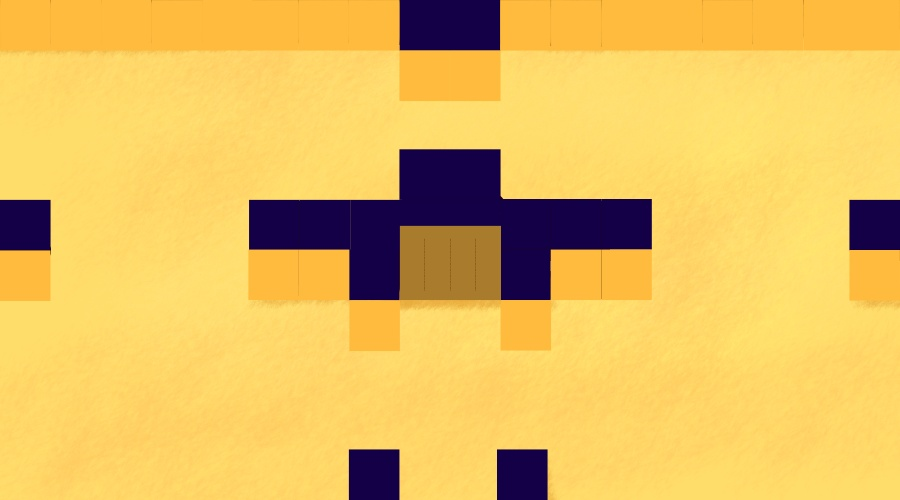
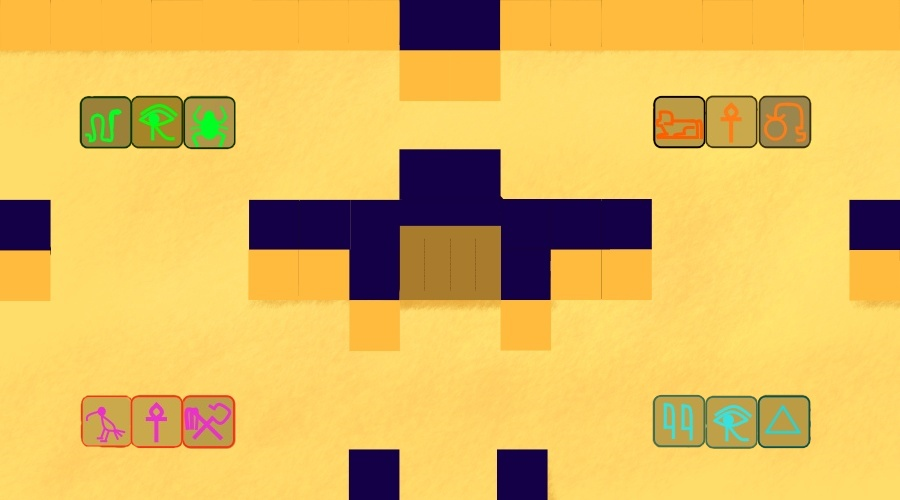
Второй уровень и движение персонажа

diff --git a/main.py b/main.py
@@ -99,7 +99,7 @@ def generate_level(level):
     return new_player, x + 1, y + 1, key_coors
 
 
-def fin():
+def fin(number):
     global all_sprites, tiles_group, things, interaction_objects, inventory_group, helpers_group
     global player, level_x, level_y, key_coors, margin, level, things_dict
     margin = 0
@@ -109,14 +109,19 @@ def fin():
     interaction_objects = pygame.sprite.Group()
     inventory_group = pygame.sprite.Group()
     helpers_group = pygame.sprite.Group()
-
-    Background("level2.jpg", 0)
-    inventory = Inventory()
-    level = load_level("level2.txt")
-    player, level_x, level_y, key_coors = generate_level(level)
-    things_dict = {
-        'key': Things("key", *key_coors, state=False)
-    }
+    if number == 1:
+        Background("level2.jpg", 0)
+        inventory = Inventory()
+        level = load_level("level2.txt")
+        entry = Entry('entry2', 'lense', 380, 16)
+        player, level_x, level_y, key_coors = generate_level(level)
+        things_dict = {
+            'key': Things("key", *key_coors, state=False),
+            'note2': Things("note", *COOR_NOTE_ROOM_2, state=False),
+            'level_n': 2
+        }
+    if number == 2:
+        terminate()
     while True:
         events = pygame.event.get()
         for event in events:
@@ -125,10 +130,10 @@ def fin():
         player.update(events)
         things.update(events)
         interaction_objects.update(events)
+        interaction_objects.draw(screen)
         all_sprites.draw(screen)
         tiles_group.draw(screen)
         inventory_group.draw(screen)
-        interaction_objects.draw(screen)
         things.draw(screen)
         pygame.display.flip()
     terminate()
@@ -160,7 +165,8 @@ class Background(pygame.sprite.Sprite):
 class Hero(pygame.sprite.Sprite):
     def __init__(self, pos_x, pos_y):
         super().__init__(all_sprites)
-        self.image = load_image("hero.png", format="png")
+        self.image = self.r_image = load_image("hero.png", format="png")
+        self.l_image = pygame.transform.flip(self.r_image, True, False)
         self.rect = self.image.get_rect().move(
             CELL_SIZE * pos_x, margin + CELL_SIZE * pos_y)
         self.pos_x = pos_x
@@ -184,9 +190,16 @@ class Hero(pygame.sprite.Sprite):
                 elif event.key == pygame.K_s or event.key == pygame.K_DOWN:
                     new_pos_y += 1
                 elif event.key == pygame.K_a or event.key == pygame.K_LEFT:
+                    self.image = self.l_image
                     new_pos_x -= 1
                 elif event.key == pygame.K_d or event.key == pygame.K_RIGHT:
+                    self.image = self.r_image
                     new_pos_x += 1
+            if event.type == pygame.MOUSEBUTTONDOWN:
+                if event.pos[0] < self.rect.x + self.rect.w // 2:
+                    self.image = self.l_image
+                elif event.pos[0] > self.rect.x + self.rect.w // 2:
+                    self.image = self.r_image
         ok = True
         if new_pos_x >= level_x or new_pos_y >= level_y or new_pos_x < 0 or new_pos_y < 0:
             ok = False
@@ -264,7 +277,7 @@ class InteractionObjects(pygame.sprite.Sprite):
 
     def update_rect(self):
         self.rect.topleft = (
-            tile_width * self.pos_x + (tile_width - self.rect.width) // 2,
+            tile_width * self.pos_x + abs(tile_width - self.rect.width) // 2,
             margin + tile_height * self.pos_y)
 
     def check_need_thing(self):
@@ -283,7 +296,7 @@ class InteractionObjects(pygame.sprite.Sprite):
     def add_to_inventory(self, thing):
         if self.check_need_thing() and thing.type not in inventory.content:
             inventory.add_thing(thing)
-            if self.type == "chest":
+            if self.type == "chest" and things_dict['level_n'] == 1:
                 scarabeus.live()
 
     def update(self, events):
@@ -297,8 +310,12 @@ class InteractionObjects(pygame.sprite.Sprite):
                             self.add_to_inventory(things_dict['key'])
                         self.die()
                     elif self.type == "chest":  # На доработку
-                        if self.pos_x == things_dict['note'].pos_x and self.pos_y == things_dict['note'].pos_y:
-                            self.add_to_inventory(things_dict['note'])
+                        if things_dict['level_n'] == 1:
+                            if self.pos_x == things_dict['note'].pos_x and self.pos_y == things_dict['note'].pos_y:
+                                self.add_to_inventory(things_dict['note'])
+                        elif things_dict['level_n'] == 2:
+                            if self.pos_x == things_dict['note2'].pos_x and self.pos_y == things_dict['note2'].pos_y:
+                                self.add_to_inventory(things_dict['note2'])
                     elif self.type == "sarcophag":
                         if self.pos_x == things_dict['key'].pos_x and self.pos_y == things_dict['key'].pos_y:
                             self.add_to_inventory(things_dict['key'])
@@ -307,56 +324,94 @@ class InteractionObjects(pygame.sprite.Sprite):
 class Entry(InteractionObjects):
     def __init__(self, obj_type, thing_for_action, x, y):
         super().__init__(obj_type, thing_for_action, x, y)
-        self.image = load_image("entry1.png")
-        self.rect = self.image.get_rect()
-        self.rect.x = setle(380, 1)
-        self.rect.y = 8
-        self.type = "entry"
-        self.pos_x = self.rect.x // tile_width
-        self.pos_y = self.rect.y / tile_height
-        self.big_image, self.open_image = load_image("big entry.jpg"), load_image("big entry2.jpg")
-        self.lense_pX, self.lense_pY, self.lense_pR = 450, 90, 30
+        if self.type == 'entry':
+            self.image = load_image("entry1.png")
+            self.rect = self.image.get_rect()
+            self.rect.x = setle(380, 1)
+            self.rect.y = 8
+            self.pos_x = self.rect.x // tile_width
+            self.pos_y = self.rect.y / tile_height
+            self.big_image, self.open_image = load_image("big entry.jpg"), load_image("big entry2.jpg")
+            self.lense_pX, self.lense_pY, self.lense_pR = 450, 90, 30
+        elif self.type == 'entry2':
+            self.image = load_image("entry2.png", format='png')
+            self.rect = self.image.get_rect()
+            self.rect.x = setle(400, 1)
+            self.rect.y = 225
+            self.pos_x = self.rect.x // tile_width
+            self.pos_y = self.rect.y / tile_height
+            self.big_image, self.open_image = load_image("big entry 3.0.jpg"), load_image("big entry 3.jpg")
+            self.wall_wheels = [WallWheel(107, 45, 15, True, 208, 80, [f"plates\plate1.{str(i + 1)}.png" for i in range(7)]),
+                           WallWheel(107, 45, 15, True, 334, 80, [f"plates\plate2.{str(i + 1)}.png" for i in range(7)]),
+                           WallWheel(107, 45, 15, True, 460, 80, [f"plates\plate3.{str(i + 1)}.png" for i in range(7)]),
+                           WallWheel(107, 45, 15, True, 586, 80, [f"plates\plate4.{str(i + 1)}.png" for i in range(7)])]
 
     def update(self, events):
         for event in events:
             if event.type == pygame.MOUSEBUTTONDOWN:
                 if event.pos[0] <= self.rect.right and event.pos[0]  >= self.rect.left and \
-                        event.pos[1] <= self.rect.bottom and event.pos[0] >= self.rect.top and \
-                        player.pos_x in [7, 8, 9] and player.pos_y in [3]:
-                    self.closer_view()
+                        event.pos[1] <= self.rect.bottom and event.pos[0] >= self.rect.top:
+                    if  (player.pos_x in [7, 8, 9] and player.pos_y in [3] and self.type == 'entry') or\
+                            (player.pos_x in [8, 9] and player.pos_y in [6] and self.type == 'entry2'):
+                        self.closer_view()
                     return
 
     def closer_view(self):
         fon = pygame.transform.scale(self.big_image, (WIDTH, HEIGHT))
         screen.blit(fon, (0, 0))
-        bttca = Button(screen,
-                       60, 390, 135, 50,
-                       'Назад',
-                       (0, 0, 0), (200, 200, 200), (255, 255, 255),
-                       5,
-                       [pygame.K_ESCAPE, pygame.K_BACKSPACE, pygame.K_DELETE])
-        while True:
-            bttca.draw()
-            for event in pygame.event.get():
-                if event.type == pygame.QUIT:
-                    terminate()
-                elif bttca.check(event):
-                    return
-                elif event.type == pygame.MOUSEBUTTONDOWN:
-                    if 'lense' in inventory.content:
-                        if ((event.pos[0] - self.lense_pX) ** 2 + (event.pos[1] - self.lense_pY) ** 2 <=
-                                self.lense_pR ** 2):
-                            bttca.close()
-                            self.open()
-                            return
-            pygame.display.flip()
+        if self.type == 'entry':
+            bttca = Button(screen,
+                           60, 390, 135, 50,
+                           'Назад',
+                           (0, 0, 0), (200, 200, 200), (255, 255, 255),
+                           5,
+                           [pygame.K_ESCAPE, pygame.K_BACKSPACE, pygame.K_DELETE])
+            while True:
+                bttca.draw()
+                for event in pygame.event.get():
+                    if event.type == pygame.QUIT:
+                        terminate()
+                    elif bttca.check(event):
+                        return
+                    elif event.type == pygame.MOUSEBUTTONDOWN:
+                        if 'lense' in inventory.content:
+                            if ((event.pos[0] - self.lense_pX) ** 2 + (event.pos[1] - self.lense_pY) ** 2 <=
+                                    self.lense_pR ** 2):
+                                bttca.close()
+                                self.open(1)
+                                return
+                pygame.display.flip()
+        elif self.type == 'entry2':
+            bttca = Button(screen,
+                           60, 390, 135, 50,
+                           'Назад',
+                           (0, 0, 0), (200, 200, 200), (255, 255, 255),
+                           5,
+                           [pygame.K_ESCAPE, pygame.K_BACKSPACE, pygame.K_DELETE])
+            while True:
+                bttca.draw()
+                for event in pygame.event.get():
+                    if event.type == pygame.QUIT:
+                        terminate()
+                    elif bttca.check(event):
+                        return
+                    for wall_wheel in self.wall_wheels:
+                        wall_wheel.check(event)
+                        if wall_wheel.current:
+                            wwc = self.wall_wheels.index(wall_wheel)
+                for wall_wheel in self.wall_wheels:
+                    wall_wheel.update()
+                if tuple(map(lambda x: x.number, self.wall_wheels)) == (3, 5, 4, 1):
+                    self.open(2)
+                plate_sprites.draw(screen)
+                pygame.display.flip()
 
-    def open(self):
+    def open(self, n):
         inventory.clear()
         fon = pygame.transform.scale(self.open_image, (WIDTH, HEIGHT))
         screen.blit(fon, (0, 0))
         bttgo = Button(screen,
-                       WIDTH // 2 - 80, 390, 150, 100,
+                       WIDTH // 2 - 70, 390, 150, 100,
                        'Войти',
                        (0, 0, 0), (200, 200, 200), (255, 255, 255),
                        5,
@@ -367,11 +422,11 @@ class Entry(InteractionObjects):
                 if event.type == pygame.QUIT:
                     terminate()
                 elif bttgo.check(event):
-                    fin()
+                    fin(n)
                     return
                 elif event.type == pygame.MOUSEBUTTONDOWN:
                     if event.pos[0] <= 550 and event.pos[0] >= 360 and event.pos[1] <= HEIGHT and event.pos[1] >= 215:
-                        fin()
+                        fin(n)
                         return
             pygame.display.flip()
 
@@ -402,12 +457,20 @@ class Things(pygame.sprite.Sprite):
             if self.type == "note":
                 self.image.fill(pygame.Color(122, 121, 121, 150))
                 self.font = pygame.font.Font(None, 35)
-                self.string_rendered = self.font.render(NOTE_TEXT, True, pygame.Color('black'))
-                self.intro_rect = self.string_rendered.get_rect()
-                self.intro_rect.top = 230
-                self.intro_rect.x = 340
-                pygame.draw.rect(self.image, pygame.Color(250, 232, 142), (320, 130, 250, 240))
-                self.image.blit(self.string_rendered, self.intro_rect)
+                if things_dict['level_n'] == 1:
+                    self.string_rendered = self.font.render(NOTE_TEXT, True, pygame.Color('black'))
+                    self.intro_rect = self.string_rendered.get_rect()
+                    self.intro_rect.top = 230
+                    self.intro_rect.x = 340
+                    pygame.draw.rect(self.image, pygame.Color(250, 232, 142), (320, 130, 250, 240))
+                    self.image.blit(self.string_rendered, self.intro_rect)
+                elif things_dict['level_n'] == 2:
+                    self.string_rendered = load_image('note2_inventory.png', format='png')
+                    self.intro_rect = self.string_rendered.get_rect()
+                    self.intro_rect.top = 80
+                    self.intro_rect.x = 180
+                    pygame.draw.rect(self.image, pygame.Color(250, 232, 142), (180, 70, 400, 360))
+                    self.image.blit(self.string_rendered, self.intro_rect)
         else:
             self.image = self.image_orig
             self.rect, self.rect_magnified = self.rect_magnified, self.rect
@@ -593,7 +656,7 @@ class TinyHelper(pygame.sprite.Sprite):
         self.alive = True
 
 
-class Button():
+class Button:
     def __init__(self, screen, x, y, w, h, txt, col1, col2, colt, line_width, eq_type=[]):
         self.rect = pygame.Rect(x, y, w, h)
         self.line_width = line_width
@@ -638,7 +701,7 @@ class Button():
         self.alive = True
 
 
-class WordTaker():
+class WordTaker:
     def __init__(self, screen, color, x, y, w, h, n=3, magic_word=''):
         self.text = '_' * n
         self.rect = pygame.Rect(x, y, w, h)
@@ -660,6 +723,51 @@ class WordTaker():
                 self.text = (self.text[:(len(self.text) - self.text.count('_')) - 1] + '_' * (self.text.count('_') + 1))
 
 
+class WallWheel:
+    def __init__(self, w, h, d, hv, x, y, plates):
+        self.plates = []
+        self.x, self.y = x, y
+        self.plate_width, self.plate_height = w, h
+        self.dist = d
+        self.hv = hv
+        for plate in plates:
+            plate_sprite = pygame.sprite.Sprite(plate_sprites)
+            plate_sprite.image = load_image(plate)
+            plate_sprite.rect = plate_sprite.image.get_rect()
+            plate_sprite.rect.x, plate_sprite.rect.y = x, y
+            self.plates.append(plate_sprite)
+        self.current = False
+        self.plates_number = len(self.plates)
+        self.number = 0
+
+    def update(self):
+        if self.hv:
+            for plate in self.plates:
+                plate.rect.y = self.y + (self.dist + self.plate_height) * self.plates.index(plate)
+        else:
+            for plate in self.plates:
+                plate.rect.x = self.x + (self.dist + self.plate_width) * self.plates.index(plate)
+
+    def check(self, event):
+        if event.type == pygame.MOUSEBUTTONDOWN:
+            if event.pos[0] <= (self.x + self.plate_width + (self.plate_width + self.dist) *
+                                (self.plates_number - 1) * (not(self.hv))) and \
+                    event.pos[0] >= self.x and \
+                    event.pos[1] <= (self.y + self.plate_height + (self.plate_height + self.dist) *
+                                     (self.plates_number - 1) * self.hv) and \
+                    event.pos[1] >= self.y:
+                self.current = True
+            else:
+                self.current = False
+        if event.type == pygame.KEYDOWN and self.current:
+            if (event.key == pygame.K_UP or event.type == pygame.K_w):
+                self.number = (self.number - 1) % self.plates_number
+                self.plates = list(self.plates[1:]) + [self.plates[0]]
+            if (event.key == pygame.K_DOWN or event.type == pygame.K_s):
+                self.number = (self.number + 1) % self.plates_number
+                self.plates = [self.plates[-1]] + list(self.plates[:-1])
+
+
 clock = pygame.time.Clock()
 all_sprites         = pygame.sprite.Group()
 tiles_group         = pygame.sprite.Group()
@@ -668,6 +776,7 @@ interaction_objects = pygame.sprite.Group()
 inventory_group     = pygame.sprite.Group()
 board               = pygame.sprite.Group()
 helpers_group       = pygame.sprite.Group()
+plate_sprites       = pygame.sprite.Group()
 
 tile_images = {
     'cactus': load_image('cactus.png', format="png"),
@@ -679,6 +788,7 @@ thing_images = {
     'shovel': load_image('shovel.png', format="png"),
     'key': pygame.Surface((50, 50), pygame.SRCALPHA, 32),
     'note': pygame.Surface((50, 50), pygame.SRCALPHA, 32),
+    'note2': pygame.Surface((50, 50), pygame.SRCALPHA, 32),
     'lense': pygame.Surface((50, 50), pygame.SRCALPHA, 32),
     'scarabeus with lense': pygame.Surface((50, 50), pygame.SRCALPHA, 32),
     'crowbar': load_image('crowbar.png', format="png")
@@ -687,7 +797,8 @@ interaction_objects_images = {
     'sand': load_image('sand.png', format="png"),
     'chest': load_image('chest.png', format="png"),
     'entry': load_image('entry1.png', format="png"),
-    'sarcophag': load_image('sarc.png', format="png")
+    'sarcophag': load_image('sarc.png', format="png"),
+    'entry2': load_image('entry2.png', format="png")
 }
 tiny_helpers = {
     'scarabeus': load_image('scarabeus.png', format="png")
@@ -714,7 +825,8 @@ level = load_level("level1.txt")
 player, level_x, level_y, key_coors = generate_level(level)
 things_dict = {
     'key': Things("key", key_coors[0], key_coors[1], state=False),
-    'note': Things("note", *COOR_NOTE, state=False)
+    'note': Things("note", *COOR_NOTE, state=False),
+    'level_n': 1
 }
 while True:
     events = pygame.event.get()

diff --git a/config.py b/config.py
@@ -6,6 +6,7 @@ SIZE = WIDTH, HEIGHT = 900, 500
 NOTE_TEXT = "-21.8052, -49.0898"
 THINGS_MAGNIFIED = ["note"]
 COOR_NOTE = (3, 3)
+COOR_NOTE_ROOM_2 = (5, 6)
 CELL_SIZE = 50
 CAM_SIZE = CAM_X, CAM_Y = 18, 10
 tile_width, tile_height = round(WIDTH / CAM_X), round(HEIGHT / CAM_Y)
